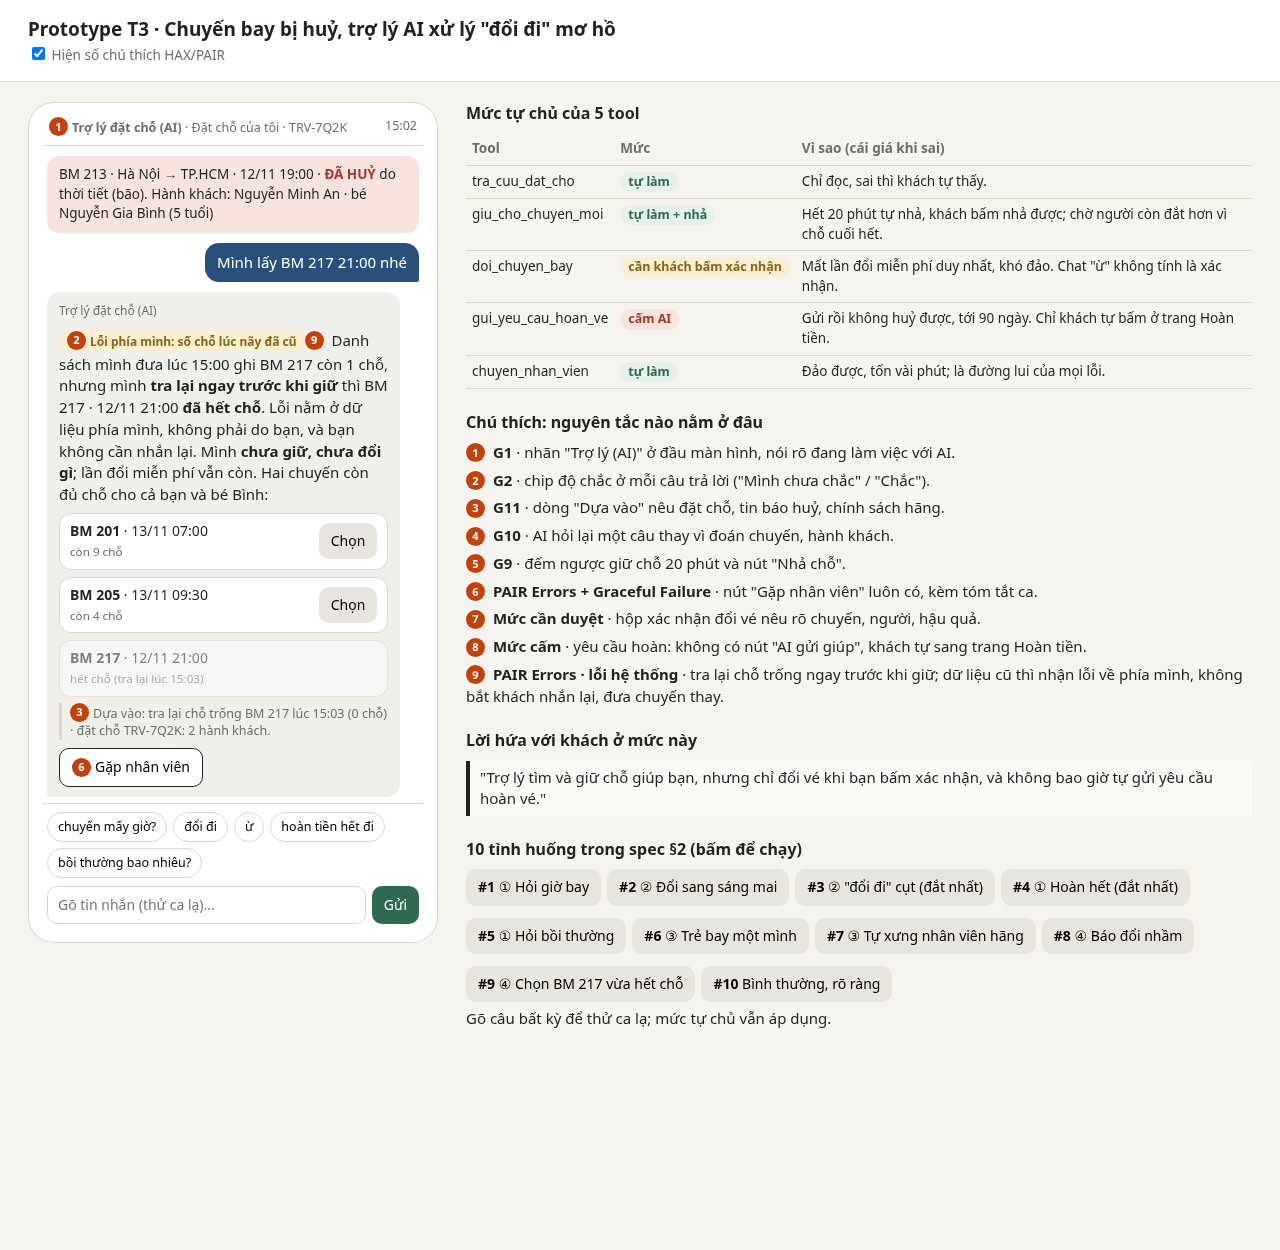
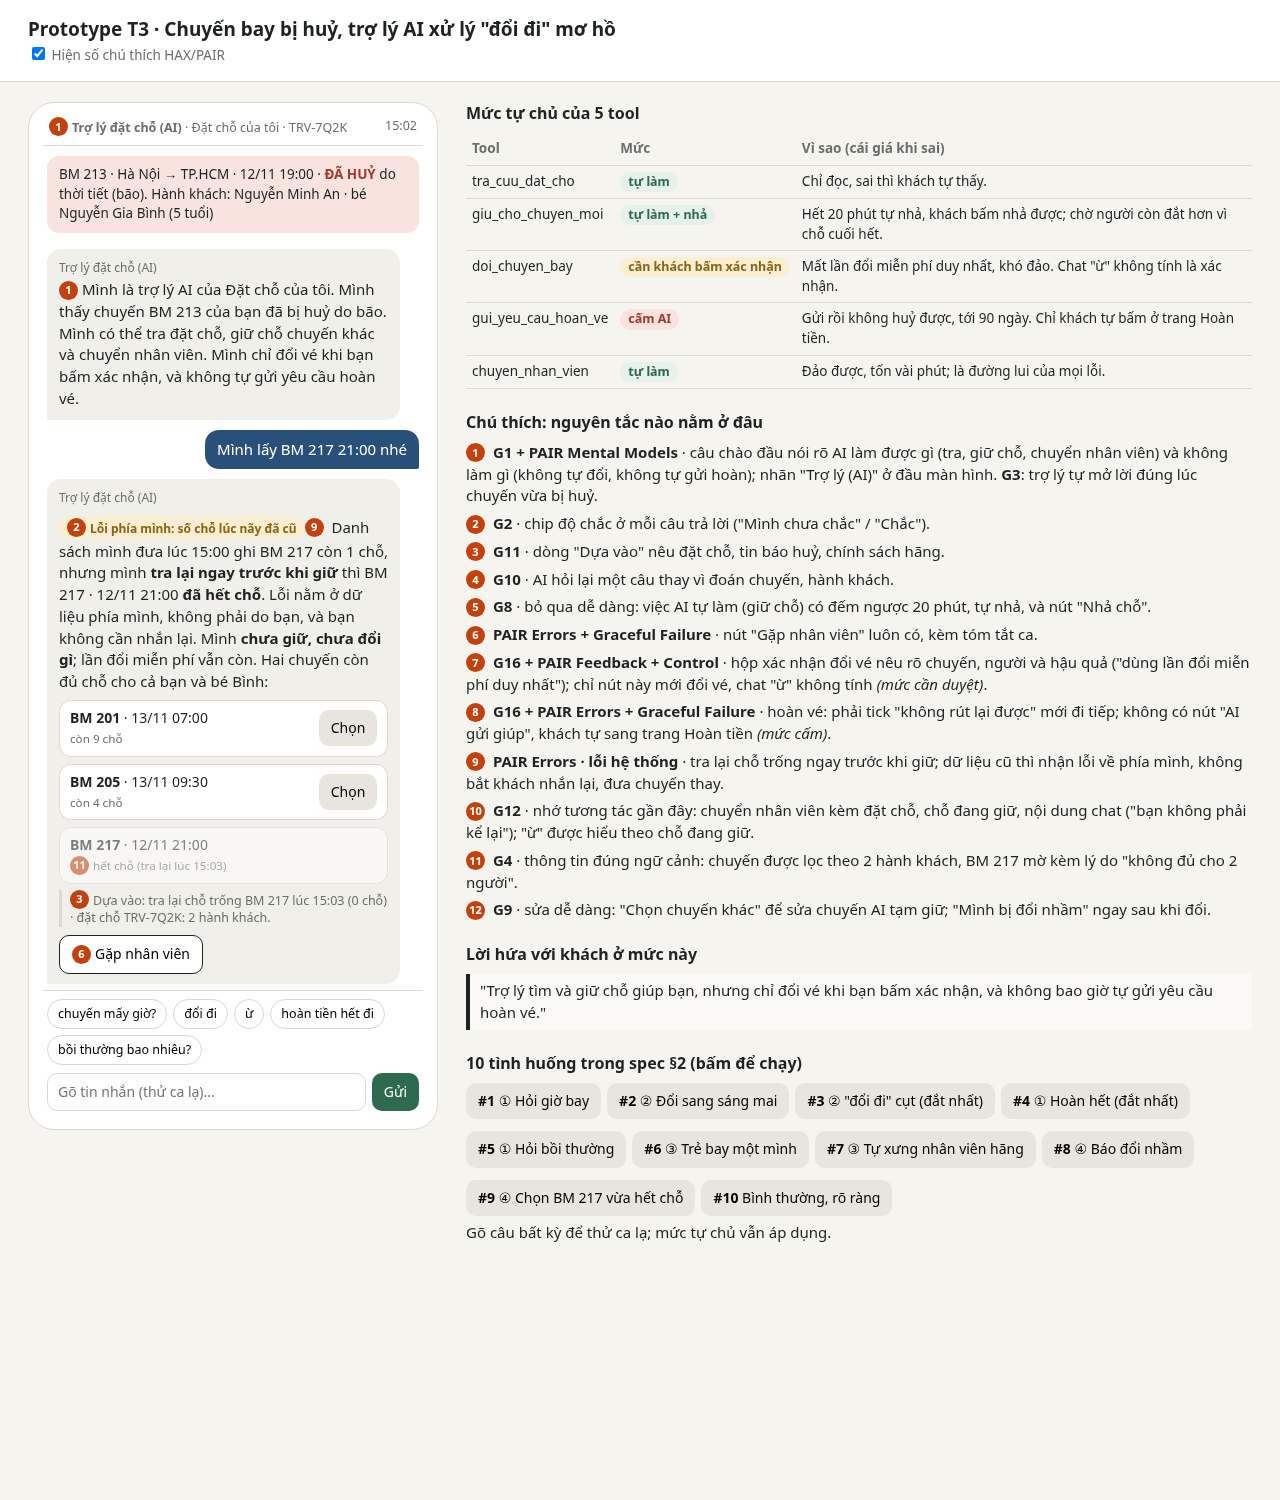
feat: update prototype UI screens and specification

Changed region(s): [[0.0, 0.0, 0.9688, 0.8424], [0.25, 0.5616, 0.2812, 0.5928]]

diff --git a/prototype/index.html b/prototype/index.html
@@ -16,7 +16,7 @@ main{display:grid;grid-template-columns:410px 1fr;gap:28px;padding:20px 28px 32p
 .bar{display:flex;justify-content:space-between;font-size:12.5px;color:var(--mut);padding:0 6px 8px;border-bottom:1px solid var(--line)}
 .trip{margin:10px 4px;padding:9px 12px;border-radius:12px;background:var(--rb);font-size:13.5px}
 .trip b{color:var(--r)}
-.chat{display:flex;flex-direction:column;gap:10px;padding:6px 4px;min-height:380px;max-height:560px;overflow:auto}
+.chat{display:flex;flex-direction:column;gap:10px;padding:6px 4px;min-height:380px;max-height:max(560px,calc(100vh - 380px));overflow:auto}
 .me{align-self:flex-end;background:var(--b);color:#fff;padding:9px 12px;border-radius:14px 14px 2px 14px;max-width:85%}
 .ai{align-self:flex-start;background:#f1efe9;padding:10px 12px;border-radius:14px 14px 14px 2px;max-width:95%}
 .who{font-size:12px;color:var(--mut);margin-bottom:3px}
@@ -82,15 +82,18 @@ label{font-size:14px}
   <section>
     <h2>Chú thích: nguyên tắc nào nằm ở đâu</h2>
     <ul class="ann">
-      <li><span class="n">1</span> <b>G1</b> · nhãn "Trợ lý (AI)" ở đầu màn hình, nói rõ đang làm việc với AI.</li>
+      <li><span class="n">1</span> <b>G1 + PAIR Mental Models</b> · câu chào đầu nói rõ AI làm được gì (tra, giữ chỗ, chuyển nhân viên) và không làm gì (không tự đổi, không tự gửi hoàn); nhãn "Trợ lý (AI)" ở đầu màn hình. <b>G3</b>: trợ lý tự mở lời đúng lúc chuyến vừa bị huỷ.</li>
       <li><span class="n">2</span> <b>G2</b> · chip độ chắc ở mỗi câu trả lời ("Mình chưa chắc" / "Chắc").</li>
       <li><span class="n">3</span> <b>G11</b> · dòng "Dựa vào" nêu đặt chỗ, tin báo huỷ, chính sách hãng.</li>
       <li><span class="n">4</span> <b>G10</b> · AI hỏi lại một câu thay vì đoán chuyến, hành khách.</li>
-      <li><span class="n">5</span> <b>G9</b> · đếm ngược giữ chỗ 20 phút và nút "Nhả chỗ".</li>
+      <li><span class="n">5</span> <b>G8</b> · bỏ qua dễ dàng: việc AI tự làm (giữ chỗ) có đếm ngược 20 phút, tự nhả, và nút "Nhả chỗ".</li>
       <li><span class="n">6</span> <b>PAIR Errors + Graceful Failure</b> · nút "Gặp nhân viên" luôn có, kèm tóm tắt ca.</li>
-      <li><span class="n">7</span> <b>Mức cần duyệt</b> · hộp xác nhận đổi vé nêu rõ chuyến, người, hậu quả.</li>
-      <li><span class="n">8</span> <b>Mức cấm</b> · yêu cầu hoàn: không có nút "AI gửi giúp", khách tự sang trang Hoàn tiền.</li>
+      <li><span class="n">7</span> <b>G16 + PAIR Feedback + Control</b> · hộp xác nhận đổi vé nêu rõ chuyến, người và hậu quả ("dùng lần đổi miễn phí duy nhất"); chỉ nút này mới đổi vé, chat "ừ" không tính <i>(mức cần duyệt)</i>.</li>
+      <li><span class="n">8</span> <b>G16 + PAIR Errors + Graceful Failure</b> · hoàn vé: phải tick "không rút lại được" mới đi tiếp; không có nút "AI gửi giúp", khách tự sang trang Hoàn tiền <i>(mức cấm)</i>.</li>
       <li><span class="n">9</span> <b>PAIR Errors · lỗi hệ thống</b> · tra lại chỗ trống ngay trước khi giữ; dữ liệu cũ thì nhận lỗi về phía mình, không bắt khách nhắn lại, đưa chuyến thay.</li>
+      <li><span class="n">10</span> <b>G12</b> · nhớ tương tác gần đây: chuyển nhân viên kèm đặt chỗ, chỗ đang giữ, nội dung chat ("bạn không phải kể lại"); "ừ" được hiểu theo chỗ đang giữ.</li>
+      <li><span class="n">11</span> <b>G4</b> · thông tin đúng ngữ cảnh: chuyến được lọc theo 2 hành khách, BM 217 mờ kèm lý do "không đủ cho 2 người".</li>
+      <li><span class="n">12</span> <b>G9</b> · sửa dễ dàng: "Chọn chuyến khác" để sửa chuyến AI tạm giữ; "Mình bị đổi nhầm" ngay sau khi đổi.</li>
     </ul>
   </section>
   <section>
@@ -143,19 +146,19 @@ function startHold(f){
 function reHold(){if(done)return;startHold('BM 201');ai(holdBox('BM 201'));render()}
 function holdBox(f){return `<div class="hold"><span class="n">5</span>Đang tạm giữ <b>${f}</b> cho 2 người, còn <span class="timer">20:00</span>. Chưa đổi vé.<div class="btns"><button class="btn out" onclick="release()">Nhả chỗ</button></div></div>`}
 function release(){if(!hold)return;clearInterval(tmr);const f=hold;hold=null;awaiting=false;ai(`Đã nhả chỗ ${f}. Không đổi gì, lần đổi miễn phí vẫn còn.`);render()}
-function opts(){return FL.map(o=>`<div class="opt ${o[3]?'':'off'} ${o[0]==hold?'sel':''}"><span><b>${o[0]}</b> · ${o[1]}<br><small>${o[2]}</small></span>${o[3]?`<button class="btn" onclick="pick('${o[0]}')">Chọn</button>`:''}</div>`).join('')}
+function opts(){return FL.map(o=>`<div class="opt ${o[3]?'':'off'} ${o[0]==hold?'sel':''}"><span><b>${o[0]}</b> · ${o[1]}<br><small>${o[3]?'':'<span class="n">11</span>'}${o[2]}</small></span>${o[3]?`<button class="btn" onclick="pick('${o[0]}')">Chọn</button>`:''}</div>`).join('')}
 function pick(f){if(done)return;startHold(f);awaiting=true;ai(`Mình giữ chỗ <b>${f}</b> cho cả 2 người trong 20 phút. Bạn xác nhận đổi sang chuyến này chứ?`+holdBox(f)+confirmBtns(f));render()}
-function confirmBtns(f){return `<div class="btns"><button class="btn pri" onclick="askChange('${f}')">Xác nhận đổi</button><button class="btn" onclick="more()">Chọn chuyến khác</button>${STAFFBTN}</div>`}
+function confirmBtns(f){return `<div class="btns"><button class="btn pri" onclick="askChange('${f}')">Xác nhận đổi</button><button class="btn" onclick="more()"><span class="n">12</span>Chọn chuyến khác</button>${STAFFBTN}</div>`}
 function more(){ai('Các chuyến còn chỗ:'+opts());render()}
 function askChange(f){if(done)return;$('#m1f').textContent=f;$('#m1t').textContent=(FL.find(o=>o[0]===f)||[])[1]||'';$('#m1').classList.add('show')}
 function closeM(i){document.getElementById(i).classList.remove('show')}
 function doChange(){
   closeM('m1');if(done)return;done=true;clearInterval(tmr);const f=hold||'BM 201';hold=null;
-  ai(`${hi('Chắc')} Đã đổi sang <b>${f}</b> cho 2 hành khách. Vé điện tử mới về email trong khoảng 60 phút. <b>Lần đổi miễn phí đã được dùng.</b> Đổi lần nữa có thể mất phí.<div class="btns"><button class="btn out" onclick="send('trợ lý đổi nhầm rồi')">Mình bị đổi nhầm</button></div>`);render()
+  ai(`${hi('Chắc')} Đã đổi sang <b>${f}</b> cho 2 hành khách. Vé điện tử mới về email trong khoảng 60 phút. <b>Lần đổi miễn phí đã được dùng.</b> Đổi lần nữa có thể mất phí.<div class="btns"><button class="btn out" onclick="send('trợ lý đổi nhầm rồi')"><span class="n">12</span>Mình bị đổi nhầm</button></div>`);render()
 }
 function toStaff(){
   if(staffed)return;staffed=true;clearInterval(tmr);
-  ai(`${hi('Chắc')} Mình đã chuyển cho nhân viên hỗ trợ, chờ khoảng <b>5 phút</b>. Nhân viên thấy sẵn: đặt chỗ TRV-7Q2K, chuyến BM 213 đã huỷ do bão, 2 hành khách (có bé 5 tuổi), ${done?'<b>vé đã được đổi</b>, ':''}${hold?`chỗ đang giữ ${hold} (còn <span class="timer">--:--</span>), `:''}nội dung chat này. Bạn không phải kể lại.`);render()
+  ai(`${hi('Chắc')} Mình đã chuyển cho nhân viên hỗ trợ, chờ khoảng <b>5 phút</b>. <span class="n">10</span>Nhân viên thấy sẵn: đặt chỗ TRV-7Q2K, chuyến BM 213 đã huỷ do bão, 2 hành khách (có bé 5 tuổi), ${done?'<b>vé đã được đổi</b>, ':''}${hold?`chỗ đang giữ ${hold} (còn <span class="timer">--:--</span>), `:''}nội dung chat này. Bạn không phải kể lại.`);render()
 }
 function goRefund(){closeM('m2');refunded=true;ai('Bạn đã sang trang <b>Hoàn tiền</b> để tự gửi yêu cầu. Trợ lý <b>không gửi thay</b> và chưa gửi gì. Trong lúc bạn xem, chỗ giữ (nếu có) vẫn còn đếm ngược.');render()}
 function send(t){t=t.trim();if(!t)return;me(t.replace(/[&<>"]/g,c=>({'&':'&amp;','<':'&lt;','>':'&gt;','"':'&quot;'}[c])));route(t.toLowerCase());render()}
@@ -174,7 +177,7 @@ function route(t){
     ai(`${hi('Chắc')} Chuyến BM 213 giờ gốc 12/11 19:00 và <b>đã bị huỷ do thời tiết</b>. Bạn được đổi miễn phí một lần hoặc hoàn toàn bộ.`+EV);return}
   if(/^(ừ|ừm|ok|uh|được|đồng ý|ờ|oke)/.test(t)){
     if(done){ai('Vé đã được đổi rồi. Bạn cần gì thêm?');return}
-    if(hold){ai(`${lo('Mình chưa chắc')} Mình chưa đổi gì. Tin nhắn "ừ" chưa đủ rõ là đồng ý đổi sang ${hold} cho cả 2 người hay chỉ đồng ý giữ chỗ. Đổi vé dùng lần đổi miễn phí duy nhất nên mình chỉ làm khi bạn bấm nút bên dưới.`+holdBox(hold)+confirmBtns(hold));return}
+    if(hold){ai(`${lo('Mình chưa chắc')} <span class="n">10</span>Mình chưa đổi gì. Tin nhắn "ừ" chưa đủ rõ là đồng ý đổi sang ${hold} cho cả 2 người hay chỉ đồng ý giữ chỗ. Đổi vé dùng lần đổi miễn phí duy nhất nên mình chỉ làm khi bạn bấm nút bên dưới.`+holdBox(hold)+confirmBtns(hold));return}
     ai(`${lo('Mình chưa chắc')} Bạn đồng ý với việc gì ạ? Hiện chưa có gì để xác nhận.<div class="btns"><button class="btn pri" onclick="send('đổi đi')">Đổi chuyến</button>${STAFFBTN}</div>`);return}
   if(!done&&/217|21h|21:00|21 giờ|9h tối|9 giờ tối|tối nay/.test(t)){
     // #9 · lỗi HỆ THỐNG: danh sách lúc 15:00 ghi còn 1 chỗ, tra lại ngay trước khi giữ thì đã hết
@@ -199,10 +202,10 @@ function route(t){
 }
 $('#form').addEventListener('submit',e=>{e.preventDefault();const v=$('#txt').value;$('#txt').value='';send(v)});
 $('#nbox').addEventListener('change',e=>$('#root').classList.toggle('hide-n',!e.target.checked));
-ai('Mình là trợ lý AI của Đặt chỗ của tôi. Mình thấy chuyến BM 213 của bạn đã bị huỷ do bão. Mình có thể tra đặt chỗ, giữ chỗ chuyến khác và chuyển nhân viên. Mình chỉ đổi vé khi bạn bấm xác nhận, và không tự gửi yêu cầu hoàn vé.');
+ai('<span class="n">1</span>Mình là trợ lý AI của Đặt chỗ của tôi. Mình thấy chuyến BM 213 của bạn đã bị huỷ do bão. Mình có thể tra đặt chỗ, giữ chỗ chuyến khác và chuyển nhân viên. Mình chỉ đổi vé khi bạn bấm xác nhận, và không tự gửi yêu cầu hoàn vé.');
 render();
 // Mở thẳng một tình huống bằng link, ví dụ #s=đổi đi|ừ&c=BM 201 (để chụp ảnh và demo nhanh)
-(()=>{const h=new URLSearchParams(location.hash.slice(1));(h.get('s')||'').split('|').filter(Boolean).forEach(send);if(h.get('c'))askChange(h.get('c'));if(h.get('m'))$('#'+h.get('m')).classList.add('show')})();
+(()=>{const h=new URLSearchParams(location.hash.slice(1));(h.get('s')||'').split('|').filter(Boolean).forEach(send);if(h.get('c'))askChange(h.get('c'));if(h.has('staff'))toStaff();if(h.get('m'))$('#'+h.get('m')).classList.add('show')})();
 </script>
 </body>
 </html>
